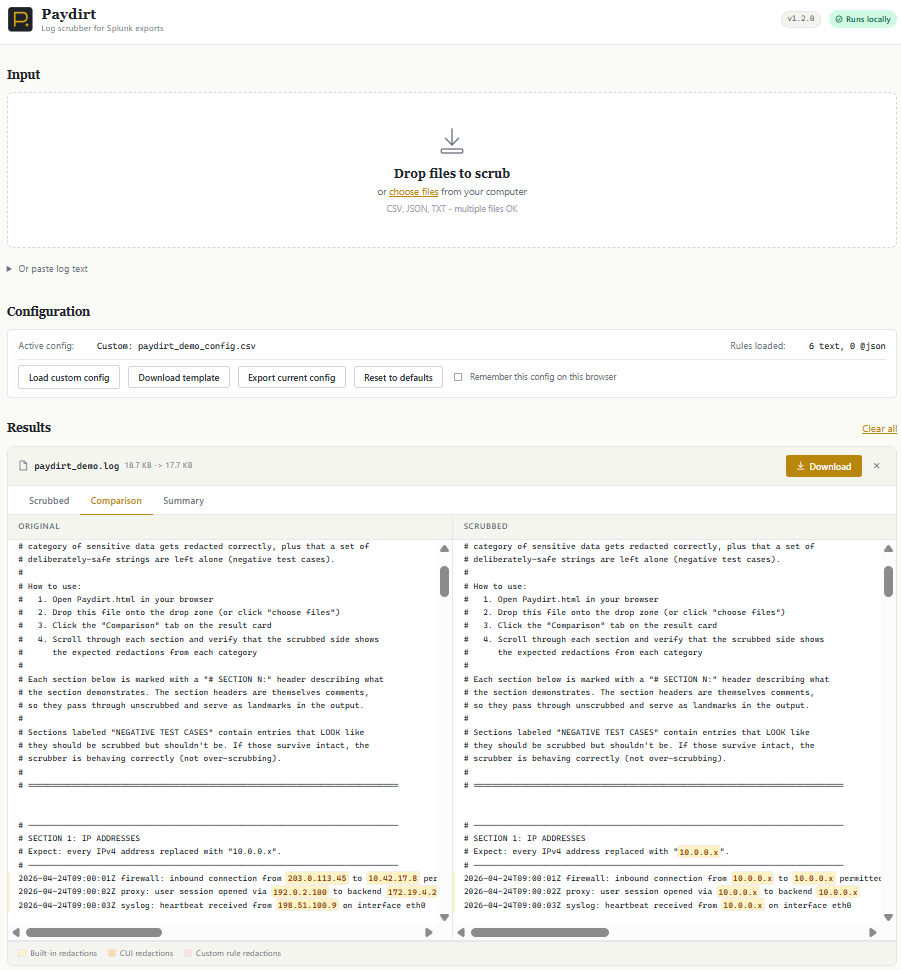
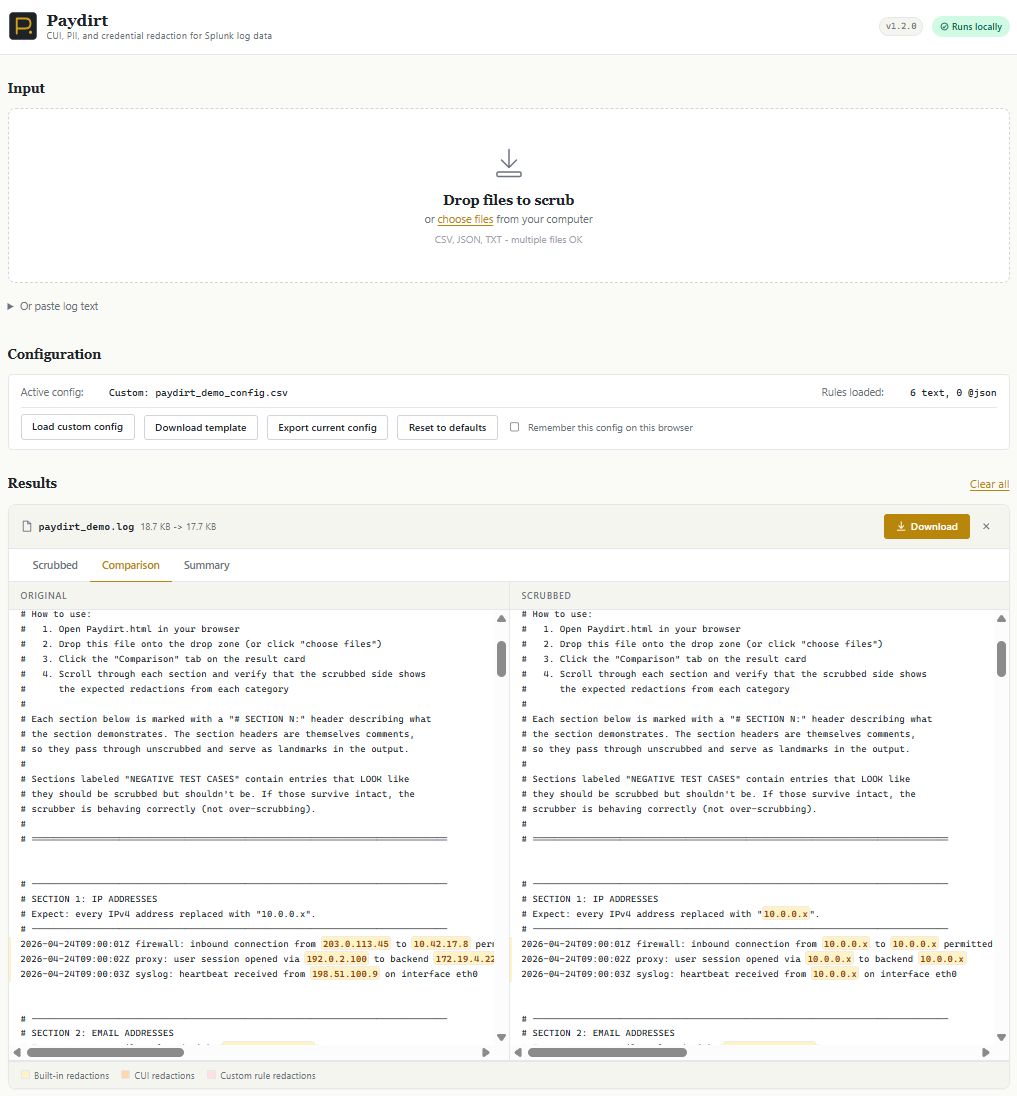
Updated tagline

diff --git a/Paydirt.html b/Paydirt.html
@@ -1,7 +1,7 @@
 <!DOCTYPE html>
 <!--
   Paydirt - Log Scrubber
-  Built: 2026-04-25 18:03:27
+  Built: 2026-04-26 10:57:05
   Machine Data Insights - machinedatainsights.com
 
   This file runs entirely in your browser.
@@ -1053,7 +1053,7 @@ button {
             </svg>
             <div class="brand-text">
                 <div class="brand-name">Paydirt</div>
-                <div class="brand-tagline">Log scrubber for Splunk exports</div>
+                <div class="brand-tagline">CUI, PII, and credential redaction for Splunk log data</div>
             </div>
         </div>
         <div class="header-meta">

diff --git a/paydirt/src/index.html b/paydirt/src/index.html
@@ -46,7 +46,7 @@
             </svg>
             <div class="brand-text">
                 <div class="brand-name">Paydirt</div>
-                <div class="brand-tagline">Log scrubber for Splunk exports</div>
+                <div class="brand-tagline">CUI, PII, and credential redaction for Splunk log data</div>
             </div>
         </div>
         <div class="header-meta">
